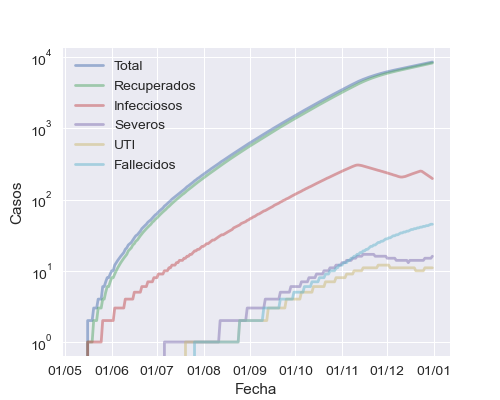
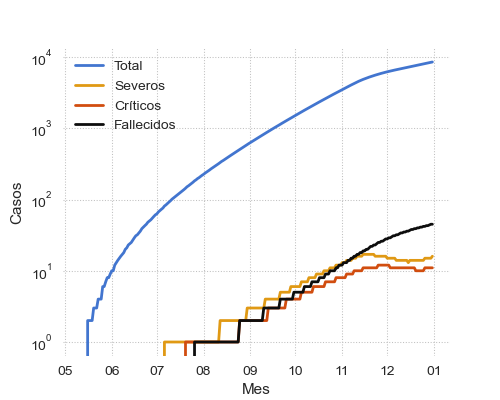
agregué gráficos por intervalos

diff --git a/modelos/covid19-scenarios-org/graficar-resultados-intervalos.py b/modelos/covid19-scenarios-org/graficar-resultados-intervalos.py
@@ -8,7 +8,7 @@ carpeta_origen = './ejemplo/'
 archivo_origen = 'c19s.results.summary.tsv'
 carpeta_destino = carpeta_origen
 archivo_destino = 'resultados.csv'
-imagen_destino = 'resultados.png'
+imagen_destino = 'resultados-intervalos.png'
 
 columnas_origen = [
     'time',
@@ -35,12 +35,25 @@ else:
     datos = pd.read_csv(ruta)
 
 # seleccionar y renombrar columnas
-datos = datos[columnas_origen]
-datos.columns = columnas_destino
+# crear dataframe con los datos 'median'
+mediana = datos[columnas_origen]
+mediana.columns = columnas_destino
+# crear dataframe con los datos 'lower bound'
+columnas_limite_inferior = [c.replace('median', 'lower bound') for c in columnas_origen]
+limite_inferior = datos[columnas_limite_inferior]
+limite_inferior.columns = columnas_destino
+# crear dataframe con los datos 'upper bound'
+columnas_limite_superior = [c.replace('median', 'upper bound') for c in columnas_origen]
+limite_superior = datos[columnas_limite_superior]
+limite_superior.columns = columnas_destino
 
 # procesar datos
-datos['Total'] = datos.sum(axis=1)
-datos['Críticos'] = datos['Críticos'] + datos['Críticos exceso']
+mediana['Total'] = mediana.sum(axis=1)
+mediana['Críticos'] = mediana['Críticos'] + mediana['Críticos exceso']
+limite_inferior['Total'] = limite_inferior.sum(axis=1)
+limite_inferior['Críticos'] = limite_inferior['Críticos'] + limite_inferior['Críticos exceso']
+limite_superior['Total'] = limite_superior.sum(axis=1)
+limite_superior['Críticos'] = limite_superior['Críticos'] + limite_superior['Críticos exceso']
 
 # datos para el gráfico
 columnas_grafico = [
@@ -70,9 +83,10 @@ ax = fig.add_subplot(111)
 
 # graficar datos
 for columna, color_linea in zip(columnas_grafico, colores_grafico):
-    x = datos['Fecha']
+    x = mediana['Fecha']
     x = [dt.datetime.strptime(d,'%Y-%m-%d').date() for d in x]  # transformar fecha en formato texto a formato datetime
-    ax.plot(x, datos[columna], alpha=1, lw=2, color=color_linea, solid_capstyle='round', label=columna)
+    #ax.plot(x, mediana[columna], alpha=0.75, lw=1, color=color_linea, solid_capstyle='round')
+    ax.fill_between(x, limite_superior[columna], limite_inferior[columna], alpha=0.2, lw=0.75, color=color_linea, label=columna)
 
 # ejes y leyenda
 ax.set_xlabel('Mes')
@@ -80,7 +94,7 @@ ax.set_ylabel('Casos')
 plt.yscale('log')
 plt.gca().xaxis.set_major_formatter(mdates.DateFormatter('%m'))  # formato de fecha
 plt.gca().xaxis.set_major_locator(mdates.MonthLocator())  # escala por meses
-legend = ax.legend(edgecolor='white')
+legend = ax.legend(edgecolor='white', loc='upper left')
 
 # guardar y mostrar gráfico
 ruta = carpeta_destino + imagen_destino
